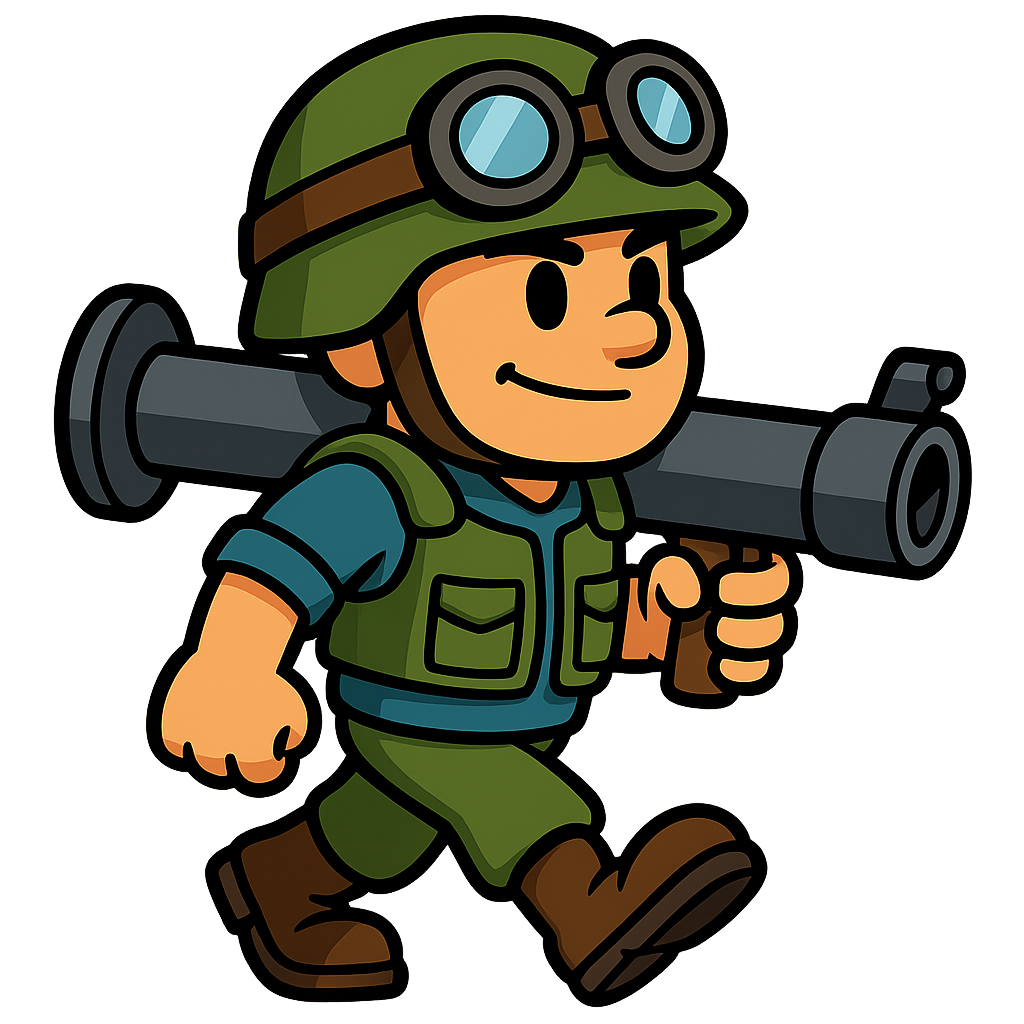
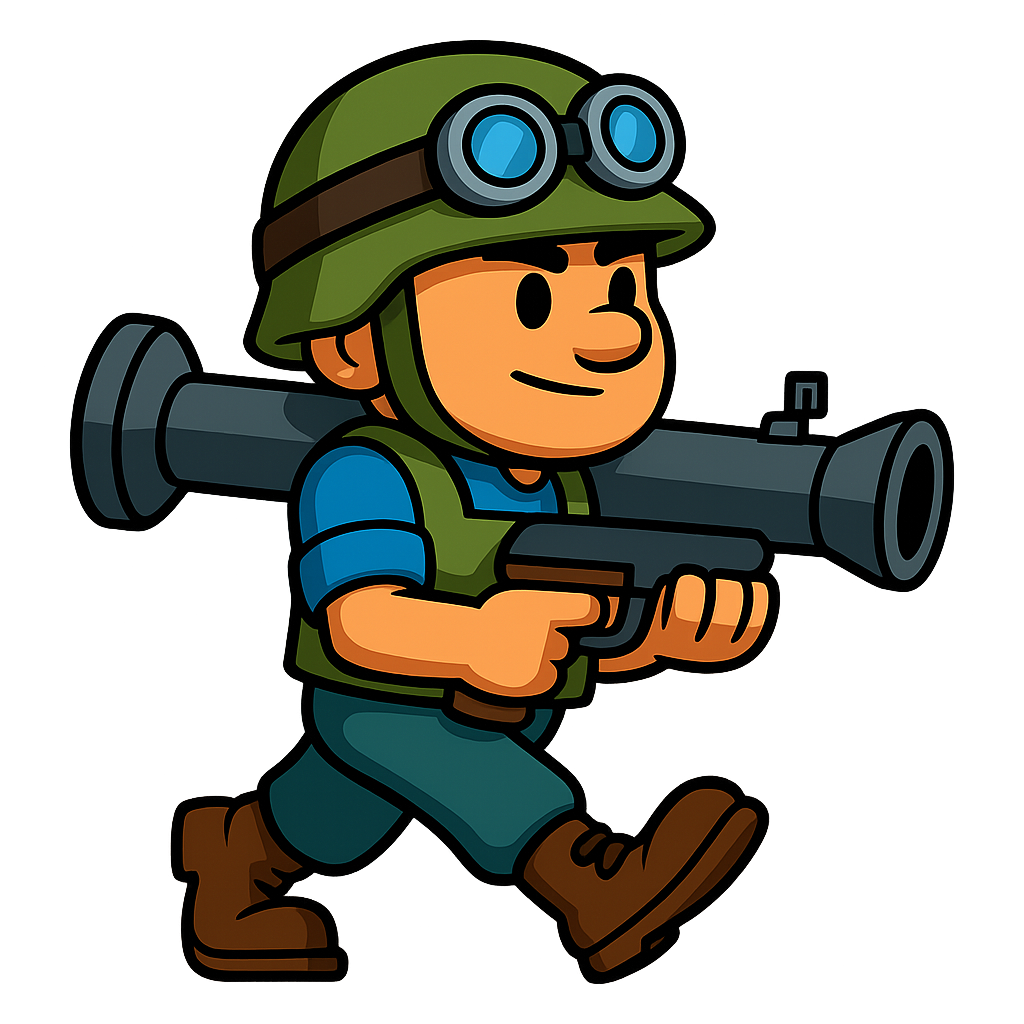
fix: smooth-interpolate walk-cycle vertical bob
Previous implementation snapped the body to a discrete Y offset at
each frame swap (every 50-80ms), causing visible vertical teleport
between frames — the soldier appeared to bounce.

Now interpolates Y continuously through the 8 keyframe values using
smoothstep easing. Spec keyframes still hit (0, +2, +5, -3 per side)
but the motion between them is a smooth curve, so the body bobs
naturally rather than jumping.

Also generated final 24 walk-cycle frames for infantry_red,
bazooka_blue, bazooka_red — all 4 soldier types now have full
8-frame cycles.

Co-authored with Thor

diff --git a/index.html b/index.html
@@ -223,10 +223,14 @@ const WALK_FRAME_ENDS = WALK_FRAME_MS.reduce((acc, d) => {
     return acc;
 }, []);
 
-// Per-frame VERTICAL OFFSET in pixels (positive = lower on screen).
-// Spec: lowest at F3/F7 (midstance, drop ~5px), highest at F4/F8 (push-off).
-// Indexed 0..7 for frames 1..8.
-const WALK_FRAME_Y_OFFSET = [0, 2, 5, -3, 0, 2, 5, -3];
+// Vertical body offset PER KEYFRAME (positive = lower on screen).
+// These are anchored to the START of each frame; we interpolate between
+// them smoothly so the body bobs continuously rather than teleporting at
+// each frame swap. Spec: lowest at F3/F7 (midstance), highest at F4/F8.
+const WALK_FRAME_Y_KEY = [0, 2, 5, -3, 0, 2, 5, -3];
+
+// Cumulative start times for each frame (i.e. WALK_FRAME_ENDS shifted right).
+const WALK_FRAME_STARTS = [0, ...WALK_FRAME_ENDS.slice(0, -1)];
 
 // Given a time in ms within the cycle, return frame number (1..8).
 function walkFrameAt(ms) {
@@ -235,6 +239,25 @@ function walkFrameAt(ms) {
         if (t < WALK_FRAME_ENDS[i]) return i + 1;
     }
     return 8;
+}
+
+// Smooth-interpolated vertical bob in pixels at time `ms` within the cycle.
+// Uses a smoothstep curve between adjacent keyframes for natural motion.
+function walkYAt(ms) {
+    const t = ((ms % WALK_CYCLE_MS) + WALK_CYCLE_MS) % WALK_CYCLE_MS;
+    for (let i = 0; i < 8; i++) {
+        if (t < WALK_FRAME_ENDS[i]) {
+            const segStart = WALK_FRAME_STARTS[i];
+            const segEnd = WALK_FRAME_ENDS[i];
+            const a = WALK_FRAME_Y_KEY[i];
+            const b = WALK_FRAME_Y_KEY[(i + 1) % 8];  // wrap so F8→F1 interpolates
+            const u = (t - segStart) / (segEnd - segStart);
+            // Smoothstep for ease-in/ease-out around the keyframe values
+            const s = u * u * (3 - 2 * u);
+            return a + (b - a) * s;
+        }
+    }
+    return 0;
 }
 let spritesLoaded = 0;
 let spritesTotal = Object.keys(SPRITE_FILES).length;
@@ -1987,10 +2010,11 @@ function drawUnit(u) {
         // Per-unit phase offset (deterministic, derived from spawn x) so units
         // don't all step in lockstep
         const phaseOffset = (u.x * 13) % WALK_CYCLE_MS;
-        const frame = u.state === 'march'
-            ? walkFrameAt(performance.now() + phaseOffset)
-            : 1;  // hold contact pose when fighting/idle
-        u._walkFrame = frame;  // stash for Y-offset lookup below
+        const cycleMs = performance.now() + phaseOffset;
+        const marching = u.state === 'march';
+        const frame = marching ? walkFrameAt(cycleMs) : 1;
+        // Smooth interpolated Y bob — continuous, not stepped per frame
+        u._walkY = marching ? walkYAt(cycleMs) : 0;
         const prefix = u.type === 'infantry'
             ? (isPlayer ? 'infantry_blue' : 'infantry_red')
             : (isPlayer ? 'bazooka_blue' : 'bazooka_red');
@@ -2008,11 +2032,10 @@ function drawUnit(u) {
         // Adjust y so the sprite's feet sit on the ground
         let drawY = sy - spriteHeight / 2 + u.h / 2;
 
-        // Soldier walk: per-frame vertical offset baked into the cycle.
-        // Spec: F3/F7 (midstance) = body lowest (+5px), F4/F8 (push-off) = body highest (-3px).
-        // Body bobs intrinsically with the 8-frame cycle.
+        // Soldier walk bob — smoothly interpolated through 8 keyframes.
+        // Lowest at midstance (F3/F7), highest at push-off (F4/F8).
         if ((u.type === 'infantry' || u.type === 'bazooka') && u.state === 'march') {
-            drawY += WALK_FRAME_Y_OFFSET[(u._walkFrame || 1) - 1];
+            drawY += u._walkY || 0;
         }
         // Tanks get a tiny rumble while moving.
         if (u.type === 'tank' && u.state === 'march') {
